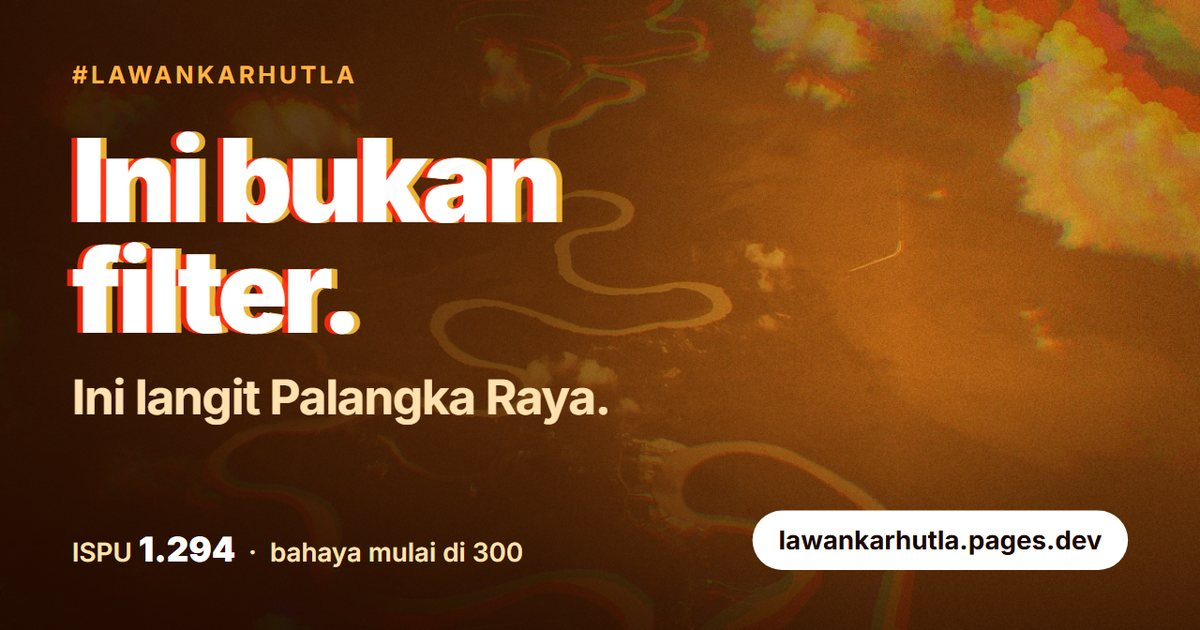
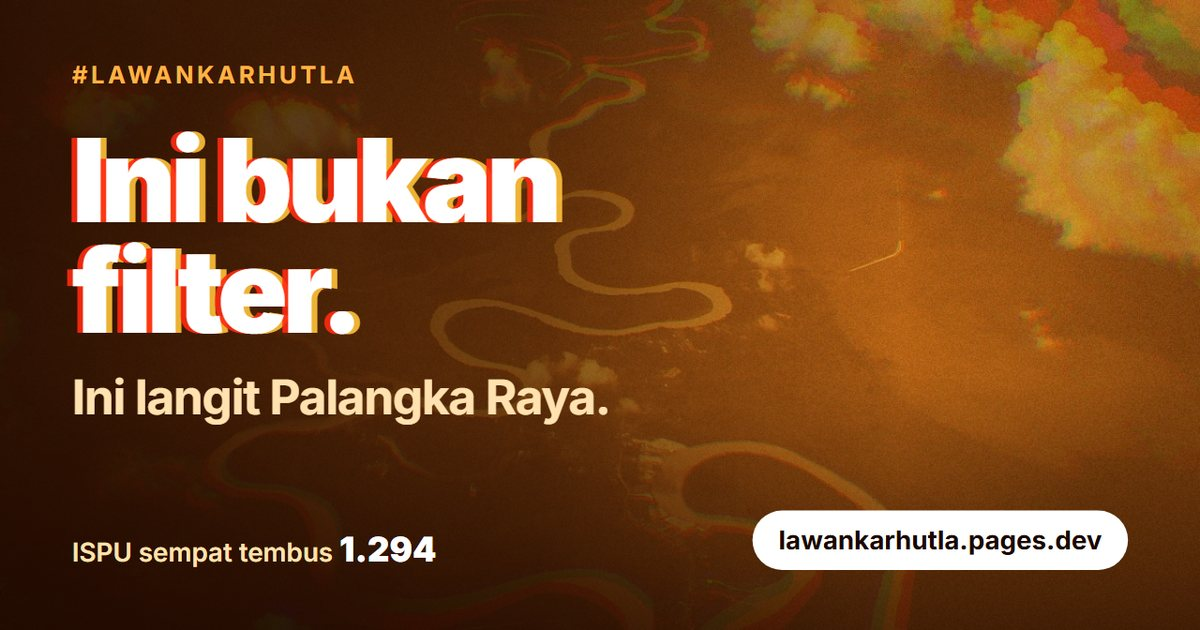
Angka dari data.json dengan kalimat yang tahan update (#3)
All figures on the page, the photo text, and the copied caption now
come from public/data.json. ISPU is phrased as a past peak ('sempat
tembus') and cumulative counts as floors ('lebih dari', '62.000+'), so
the copy stays true as numbers change. OG image text updated to match.

Changed region(s): [[0.0925, 0.8444, 0.4317, 0.9048]]

diff --git a/public/index.html b/public/index.html
@@ -18,21 +18,21 @@
 <meta property="og:locale" content="id_ID">
 <meta property="og:url" content="https://lawankarhutla.pages.dev/">
 <meta property="og:title" content="Ini bukan filter. Ini langit Palangka Raya.">
-<meta property="og:description" content="ISPU Palangka Raya tembus 1.294, padahal bahaya mulai di 300. Pasang warna langit itu di foto profilmu. #LawanKarhutla">
+<meta property="og:description" content="ISPU Palangka Raya sempat tembus 1.294, padahal bahaya mulai di 300. Pasang warna langit itu di foto profilmu. #LawanKarhutla">
 <meta property="og:image" content="https://lawankarhutla.pages.dev/og.jpg">
 <meta property="og:image:secure_url" content="https://lawankarhutla.pages.dev/og.jpg">
 <meta property="og:image:type" content="image/jpeg">
 <meta property="og:image:width" content="1200">
 <meta property="og:image:height" content="630">
-<meta property="og:image:alt" content="Foto udara sungai di Palangka Raya yang tertutup kabut oranye, dengan tulisan besar: Ini bukan filter. Ini langit Palangka Raya. ISPU 1.294.">
+<meta property="og:image:alt" content="Foto udara sungai di Palangka Raya yang tertutup kabut oranye, dengan tulisan besar: Ini bukan filter. Ini langit Palangka Raya. ISPU sempat tembus 1.294.">
 
 <meta name="twitter:card" content="summary_large_image">
 <meta name="twitter:site" content="@adenaufal">
 <meta name="twitter:creator" content="@adenaufal">
 <meta name="twitter:title" content="Ini bukan filter. Ini langit Palangka Raya.">
-<meta name="twitter:description" content="ISPU Palangka Raya tembus 1.294, padahal bahaya mulai di 300. Pasang warna langit itu di foto profilmu. #LawanKarhutla">
+<meta name="twitter:description" content="ISPU Palangka Raya sempat tembus 1.294, padahal bahaya mulai di 300. Pasang warna langit itu di foto profilmu. #LawanKarhutla">
 <meta name="twitter:image" content="https://lawankarhutla.pages.dev/og.jpg">
-<meta name="twitter:image:alt" content="Foto udara sungai di Palangka Raya yang tertutup kabut oranye, dengan tulisan besar: Ini bukan filter. Ini langit Palangka Raya. ISPU 1.294.">
+<meta name="twitter:image:alt" content="Foto udara sungai di Palangka Raya yang tertutup kabut oranye, dengan tulisan besar: Ini bukan filter. Ini langit Palangka Raya. ISPU sempat tembus 1.294.">
 
 <script type="application/ld+json">
 {
@@ -277,9 +277,9 @@
   </header>
 
   <dl class="stats">
-    <div><dt>1.294</dt><dd>ISPU Palangka Raya. Bahaya mulai di 300.</dd></div>
-    <div><dt>62.400</dt><dd>balita kena ISPA per 11&nbsp;Oktober.</dd></div>
-    <div><dt>95</dt><dd>perusahaan diselidiki. Tersangka belum diumumkan.</dd></div>
+    <div><dt data-bind="ispuPeak">1.294</dt><dd>ISPU Palangka Raya sempat tembus angka ini. Bahaya mulai di <span data-bind="ispuDanger">300</span>.</dd></div>
+    <div><dt data-bind="balitaAtLeast">62.000+</dt><dd>balita kena ISPA per <span data-bind="balitaAsOf">11&nbsp;Oktober</span>.</dd></div>
+    <div><dt data-bind="perusahaanAtLeast">90+</dt><dd>perusahaan diselidiki. Tersangka belum diumumkan.</dd></div>
   </dl>
 
   <div class="stage" id="stage" data-empty="true">
@@ -313,7 +313,7 @@
       <legend>Pesan kampanye</legend>
       <label><input type="radio" name="message" value="lawan" checked><span>Lawan Karhutla</span></label>
       <label><input type="radio" name="message" value="napas"><span>Mau bernapas</span></label>
-      <label><input type="radio" name="message" value="ispu"><span>ISPU 1.294</span></label>
+      <label><input type="radio" name="message" value="ispu"><span data-bind="ispuChip">ISPU 1.294</span></label>
       <label><input type="radio" name="message" value="adili"><span>Adili pembakar</span></label>
       <label><input type="radio" name="message" value="lupa"><span>Jangan lupa</span></label>
       <label><input type="radio" name="message" value="none"><span>Tanpa teks</span></label>
@@ -328,7 +328,7 @@
   <footer>
     <p>Diinisiasi oleh <a href="https://x.com/adenaufal">@adenaufal</a>. Kode situs ini terbuka di <a href="https://github.com/adenaufal/lawan-karhutla">GitHub</a>.</p>
     <p>Fotomu diproses di perangkatmu dan tidak diunggah ke mana pun.</p>
-    <p>Sumber angka: <a href="https://kalteng.antaranews.com/berita/845510/kabut-asap-dampak-karhutla-masih-menyelimuti-palangka-raya">ANTARA</a>, <a href="https://health.detik.com/berita-detikhealth/d-8709190/62-ribu-balita-alami-ispa-di-wilayah-terdampak-karhutla">detikHealth</a>, <a href="https://en.wikipedia.org/wiki/2026_Southeast_Asian_haze">Wikipedia</a>. Data per pertengahan Oktober 2026.</p>
+    <p>Sumber angka: <a href="https://kalteng.antaranews.com/berita/845510/kabut-asap-dampak-karhutla-masih-menyelimuti-palangka-raya">ANTARA</a>, <a href="https://health.detik.com/berita-detikhealth/d-8709190/62-ribu-balita-alami-ispa-di-wilayah-terdampak-karhutla">detikHealth</a>, <a href="https://en.wikipedia.org/wiki/2026_Southeast_Asian_haze">Wikipedia</a>. Data per <span data-bind="updatedLabel">pertengahan Oktober 2026</span>.</p>
     <p>Foto di pratinjau tautan: <a href="https://unsplash.com/photos/UGAGO3YJ4Kk">alea Film</a> di Unsplash.</p>
   </footer>
 </main>
@@ -452,14 +452,59 @@
     ctx.fillText(text, x, y);
   }
 
-  // Each variant: small kicker line, two headline lines, hashtag. Facts match the stats on the page.
-  const MESSAGES = {
-    lawan: { kicker: "INI BUKAN FILTER",               lines: ["LAWAN", "KARHUTLA"] },
-    napas: { kicker: "62.400 BALITA KENA ISPA",        lines: ["KAMI MAU", "BERNAPAS"] },
-    ispu:  { kicker: "BATAS BAHAYANYA 300",            lines: ["ISPU", "1.294"] },
-    adili: { kicker: "95 PERUSAHAAN SEDANG DISELIDIKI", lines: ["ADILI", "PEMBAKAR"] },
-    lupa:  { kicker: "TIAP TAHUN BEGINI",              lines: ["JANGAN", "LUPA LAGI"] },
+  // Figures live in data.json so the page, the photo text, and the caption stay in sync.
+  // Wording only claims a past peak ("sempat") or a floor ("lebih dari"), so it stays true as numbers grow.
+  let DATA = {
+    updatedLabel: "pertengahan Oktober 2026",
+    ispu: { peak: 1294, danger: 300 },
+    balitaIspa: { atLeast: 62000, asOf: "11 Oktober" },
+    perusahaan: { atLeast: 90 },
   };
+  const fmt = n => new Intl.NumberFormat("id-ID").format(n);
+
+  // Each variant: small kicker line, two headline lines, hashtag.
+  function messages() {
+    const d = DATA;
+    return {
+      lawan: { kicker: "INI BUKAN FILTER", lines: ["LAWAN", "KARHUTLA"] },
+      napas: { kicker: `LEBIH DARI ${fmt(d.balitaIspa.atLeast)} BALITA KENA ISPA`, lines: ["KAMI MAU", "BERNAPAS"] },
+      ispu:  { kicker: `BAHAYA MULAI DI ${fmt(d.ispu.danger)}`, lines: ["ISPU SEMPAT", fmt(d.ispu.peak)] },
+      adili: { kicker: `LEBIH DARI ${fmt(d.perusahaan.atLeast)} PERUSAHAAN DISELIDIKI`, lines: ["ADILI", "PEMBAKAR"] },
+      lupa:  { kicker: "TIAP TAHUN BEGINI", lines: ["JANGAN", "LUPA LAGI"] },
+    };
+  }
+
+  function caption() {
+    const d = DATA;
+    return [
+      "Ini bukan filter. Langit Palangka Raya memang oranye, dan warganya menghirup asap ini sejak akhir Juli.",
+      `ISPU di sana sempat tembus ${fmt(d.ispu.peak)}. Batas berbahayanya ${fmt(d.ispu.danger)}. Per ${d.balitaIspa.asOf}, lebih dari ${fmt(d.balitaIspa.atLeast)} balita di daerah terdampak kena ISPA.`,
+      `Tiap tahun kita ganti foto profil, lalu lupa sampai musim asap berikutnya. Tahun ini jangan. Kawal lebih dari ${fmt(d.perusahaan.atLeast)} perusahaan yang sedang diselidiki sampai ada yang diadili.`,
+      "#LawanKarhutla",
+    ].join("\n\n");
+  }
+
+  function applyData() {
+    const d = DATA;
+    const values = {
+      ispuPeak: fmt(d.ispu.peak),
+      ispuDanger: fmt(d.ispu.danger),
+      ispuChip: `ISPU ${fmt(d.ispu.peak)}`,
+      balitaAtLeast: `${fmt(d.balitaIspa.atLeast)}+`,
+      balitaAsOf: d.balitaIspa.asOf,
+      perusahaanAtLeast: `${fmt(d.perusahaan.atLeast)}+`,
+      updatedLabel: d.updatedLabel,
+    };
+    document.querySelectorAll("[data-bind]").forEach(el => {
+      if (el.dataset.bind in values) el.textContent = values[el.dataset.bind];
+    });
+    schedule();
+  }
+
+  fetch("/data.json", { cache: "no-cache" })
+    .then(r => (r.ok ? r.json() : Promise.reject(r.status)))
+    .then(json => { DATA = json; applyData(); })
+    .catch(() => {});
 
   // Width of the circular crop at a given baseline, so text survives round avatars.
   function chordAt(size, y, margin) {
@@ -533,7 +578,7 @@
     ctx.clearRect(0, 0, size, size);
     ctx.drawImage(img, (size - w) / 2 + x * size, (size - h) / 2 + y * size, w, h);
     applyFilter(ctx, size, strength.value / 100, MODES[modeInput().value]);
-    const msg = MESSAGES[messageInput().value];
+    const msg = messages()[messageInput().value];
     if (msg) drawBadge(ctx, size, msg);
   }
 
@@ -603,16 +648,10 @@
   preview.addEventListener("pointerup", end);
   preview.addEventListener("pointercancel", end);
 
-  const CAPTION = [
-    "Ini bukan filter. Langit Palangka Raya memang oranye, dan warganya menghirup asap ini sejak akhir Juli.",
-    "ISPU di sana sempat tembus 1.294. Batas berbahayanya 300. Per 11 Oktober, 62.400 balita di daerah terdampak kena ISPA.",
-    "Tiap tahun kita ganti foto profil, lalu lupa sampai musim asap berikutnya. Tahun ini jangan. Kawal 95 perusahaan yang sedang diselidiki sampai ada yang diadili.",
-    "#LawanKarhutla",
-  ].join("\n\n");
   const copyBtn = document.getElementById("copyCaption");
   copyBtn.addEventListener("click", async () => {
     try {
-      await navigator.clipboard.writeText(CAPTION);
+      await navigator.clipboard.writeText(caption());
       copyBtn.textContent = "Caption tersalin";
     } catch {
       copyBtn.textContent = "Gagal menyalin. Izinkan akses clipboard lalu coba lagi.";

diff --git a/tools/og-image.html b/tools/og-image.html
@@ -48,7 +48,7 @@
   <h1>Ini bukan<br>filter.</h1>
   <p class="sub">Ini langit Palangka Raya.</p>
   <div class="foot">
-    <p class="stat">ISPU <b>1.294</b> &nbsp;·&nbsp; bahaya mulai di 300</p>
+    <p class="stat">ISPU sempat tembus <b>1.294</b></p>
     <p class="url">lawankarhutla.pages.dev</p>
   </div>
 </main>

diff --git a/README.md b/README.md
@@ -8,9 +8,9 @@ Filternya meniru warna langit Palangka Raya, Kalimantan Tengah, saat tertutup as
 
 ## Kenapa situs ini dibuat
 
-Asap karhutla sudah menyelimuti Palangka Raya sejak akhir Juli 2026. Pertengahan Oktober, ISPU kota itu sempat tercatat 1.294, padahal kategori berbahaya dimulai di angka 300. Per 11 Oktober, Kementerian Kesehatan mencatat 62.400 balita kena ISPA di daerah terdampak. Asapnya juga sampai ke Malaysia, Singapura, Brunei, dan Timor-Leste. Di Johor dan Timor-Leste, sekolah sampai diliburkan.
+Asap karhutla sudah menyelimuti Palangka Raya sejak akhir Juli 2026. Pertengahan Oktober, ISPU kota itu sempat tercatat 1.294, padahal kategori berbahaya dimulai di angka 300. Per 11 Oktober, Kementerian Kesehatan mencatat lebih dari 62.000 balita kena ISPA di daerah terdampak. Asapnya juga sampai ke Malaysia, Singapura, Brunei, dan Timor-Leste. Di Johor dan Timor-Leste, sekolah sampai diliburkan.
 
-Ganti foto profil saja tidak memadamkan api. Kami membuat situs ini supaya orang yang jauh dari asap ikut melihat warnanya, membaca angkanya, lalu ikut mengawal penyelidikan terhadap 95 perusahaan yang sedang diperiksa polisi.
+Ganti foto profil saja tidak memadamkan api. Kami membuat situs ini supaya orang yang jauh dari asap ikut melihat warnanya, membaca angkanya, lalu ikut mengawal penyelidikan terhadap lebih dari 90 perusahaan yang sedang diperiksa polisi.
 
 ## Cara pakai
 
@@ -25,12 +25,12 @@ Ada lima pesan kampanye yang bisa dipasang di foto, atau pilih "Tanpa teks" kala
 | Pilihan | Baris kecil | Tulisan besar |
 |---|---|---|
 | Lawan Karhutla | INI BUKAN FILTER | LAWAN KARHUTLA |
-| Mau bernapas | 62.400 BALITA KENA ISPA | KAMI MAU BERNAPAS |
-| ISPU 1.294 | BATAS BAHAYANYA 300 | ISPU 1.294 |
-| Adili pembakar | 95 PERUSAHAAN SEDANG DISELIDIKI | ADILI PEMBAKAR |
+| Mau bernapas | LEBIH DARI 62.000 BALITA KENA ISPA | KAMI MAU BERNAPAS |
+| ISPU 1.294 | BAHAYA MULAI DI 300 | ISPU SEMPAT 1.294 |
+| Adili pembakar | LEBIH DARI 90 PERUSAHAAN DISELIDIKI | ADILI PEMBAKAR |
 | Jangan lupa | TIAP TAHUN BEGINI | JANGAN LUPA LAGI |
 
-Semua pesan ditutup #LawanKarhutla. Ukuran hurufnya menyesuaikan lebar lingkaran, jadi tulisan tidak terpotong saat platform memotong foto profil jadi bulat. Teks pesan ada di objek `MESSAGES` di `index.html`.
+Semua pesan ditutup #LawanKarhutla. Ukuran hurufnya menyesuaikan lebar lingkaran, jadi tulisan tidak terpotong saat platform memotong foto profil jadi bulat. Teks pesan ada di fungsi `messages()` di `index.html`, dan angkanya diambil dari `data.json`.
 
 ## Gaya filter
 
@@ -57,9 +57,31 @@ python -m http.server 8000 --directory public
 
 Lalu buka http://localhost:8000. Membuka `public/index.html` langsung dari file juga bisa.
 
+## Memperbarui angka
+
+Semua angka di halaman, di teks foto profil, dan di caption yang disalin diambil dari satu file: `public/data.json`.
+
+```json
+{
+  "updatedLabel": "pertengahan Oktober 2026",
+  "ispu": { "peak": 1294, "danger": 300 },
+  "balitaIspa": { "atLeast": 62000, "asOf": "11 Oktober" },
+  "perusahaan": { "atLeast": 90 }
+}
+```
+
+Kalimatnya sengaja dibuat tetap benar walaupun angkanya bertambah:
+
+- `ispu.peak` ditampilkan sebagai "sempat tembus". ISPU naik-turun tiap jam, jadi yang dicatat adalah puncaknya. Ganti hanya kalau ada rekor baru yang lebih tinggi.
+- `balitaIspa.atLeast` dan `perusahaan.atLeast` ditampilkan sebagai "lebih dari" atau "62.000+". Bulatkan ke bawah dari angka resmi terbaru, supaya klaimnya tidak pernah lebih besar dari data.
+
+Setiap kali angka diganti, perbarui juga `updatedLabel`, dan tambahkan sumbernya di bagian Sumber data di bawah. File ini bisa diedit langsung dari GitHub, termasuk dari HP.
+
+Ada tiga tempat yang tidak ikut otomatis karena isinya statis: meta description dan teks Open Graph di `<head>` `index.html`, tulisan di `og.jpg`, serta tabel pesan di README ini. Ganti manual kalau angka ISPU puncaknya berubah.
+
 ## Deploy
 
-Situs ini di-host di Cloudflare Pages. Untuk deploy ulang:
+Situs ini di-host di Cloudflare Pages. Kalau repo ini sudah tersambung ke project `lawankarhutla` di dashboard Cloudflare Pages (build command kosong, output directory `public`), setiap push ke `main` langsung ter-deploy. Untuk deploy manual:
 
 ```bash
 npx wrangler pages deploy public --project-name lawankarhutla --branch main
@@ -72,6 +94,7 @@ Folder `public` juga bisa diunggah ke hosting statis lain seperti Netlify, Verce
 ```
 public/
   index.html             # seluruh situs: markup, gaya, logika filter, meta SEO
+  data.json              # semua angka yang tampil di situs, foto, dan caption
   og.jpg                 # gambar pratinjau saat link dibagikan (1200×630)
   favicon.svg
   apple-touch-icon.png
@@ -97,7 +120,7 @@ Setelah itu buka `tools/og-image.html` di browser dengan viewport 1200×630, amb
 
 ## Sumber data
 
-Angka di situs dan README ini diambil dari berita per pertengahan Oktober 2026. ISPU berubah tiap jam, jadi cek sumber terbaru sebelum mengutip.
+Angka di situs dan README ini diambil dari berita per pertengahan Oktober 2026. Angka ISPU di situs adalah puncak yang sempat tercatat, bukan angka saat ini. Untuk kondisi terkini, cek ISPUnet KLH.
 
 - [ANTARA Kalteng: kabut asap masih menyelimuti Palangka Raya](https://kalteng.antaranews.com/berita/845510/kabut-asap-dampak-karhutla-masih-menyelimuti-palangka-raya)
 - [detikHealth: 62 ribu balita alami ISPA di wilayah terdampak karhutla](https://health.detik.com/berita-detikhealth/d-8709190/62-ribu-balita-alami-ispa-di-wilayah-terdampak-karhutla)
